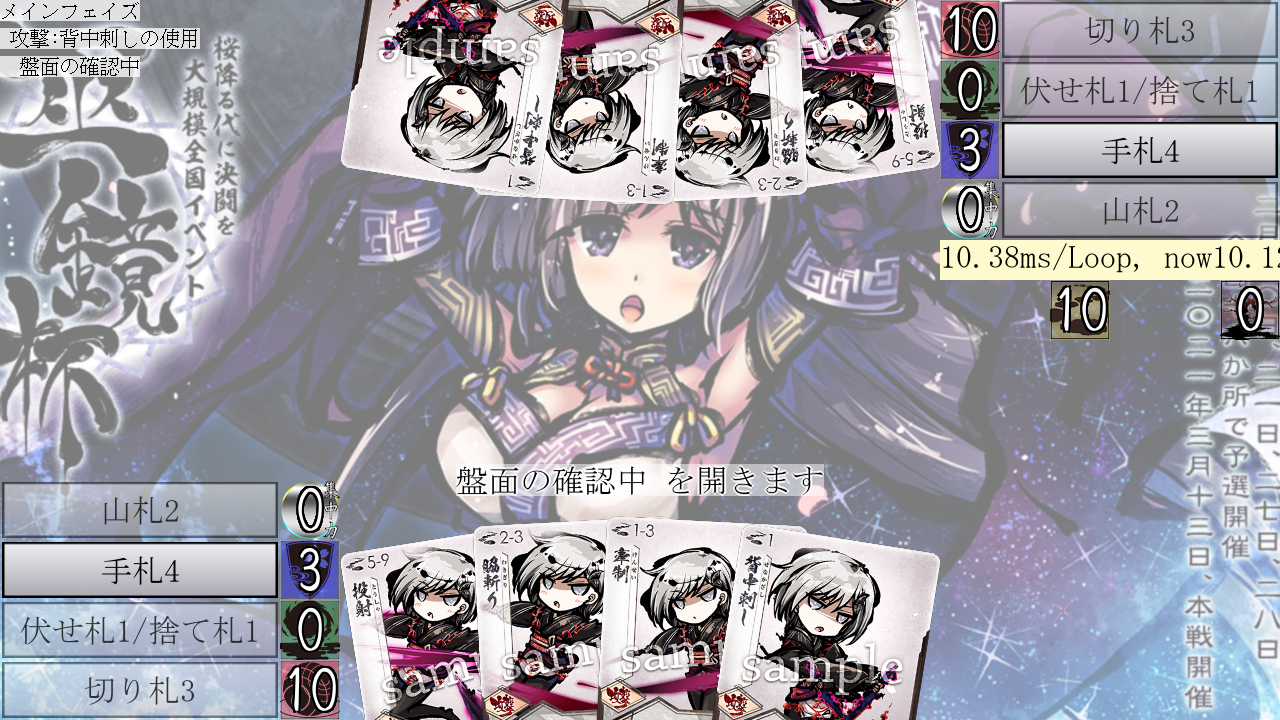
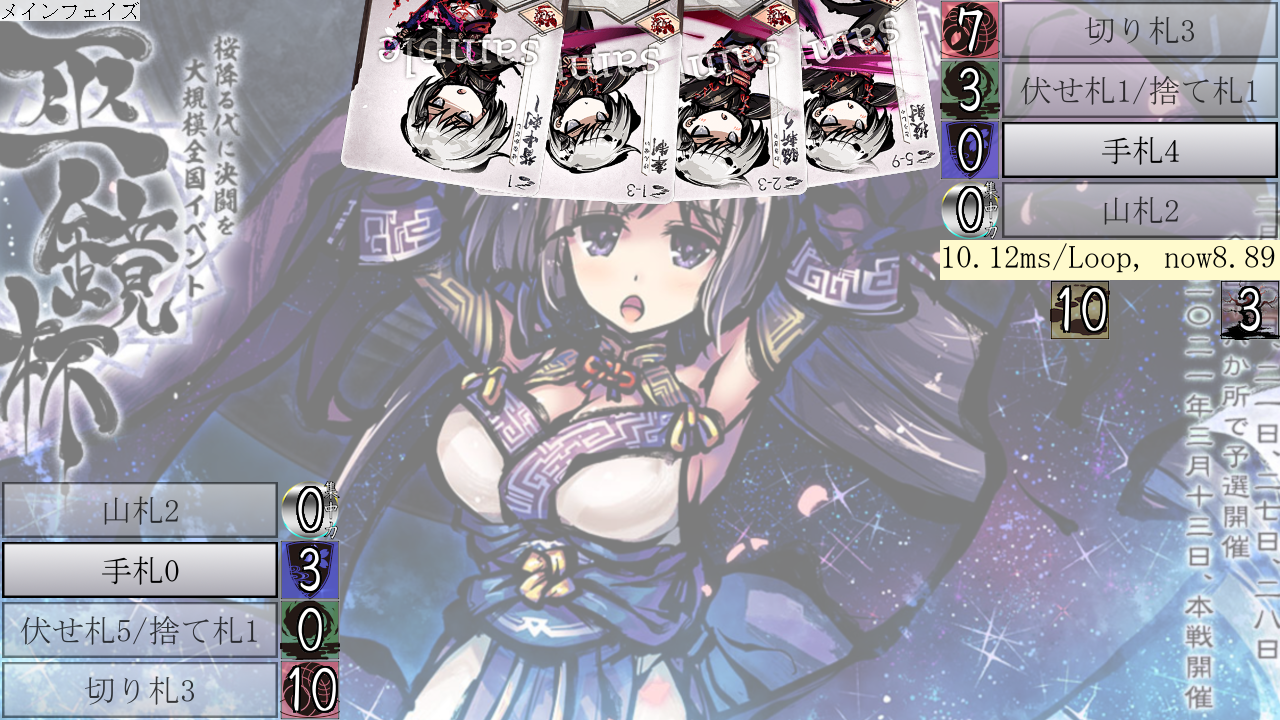
J200:オーラ受け、ライフ受けが攻撃に対してできる様になる

diff --git a/mod/ol/play_kougeki.py b/mod/ol/play_kougeki.py
@@ -1,9 +1,11 @@
+#                 20                  40                  60                 79
 import pygame
 from pygame.math import Vector2
 from pygame.surface import Surface
 from typing import Any, Callable
 
-from mod.const import screen, IMG_GRAY_LAYER, compatible_with, IMG_AURA_DAMAGE, IMG_LIFE_DAMAGE, BRIGHT, WX, WY, draw_aiharasuu
+from mod.const import screen, IMG_GRAY_LAYER, compatible_with, IMG_AURA_DAMAGE, IMG_LIFE_DAMAGE, BRIGHT, WX, WY, draw_aiharasuu\
+    , TC_SUTEHUDA, UC_AURA, UC_DUST, UC_LIFE, UC_FLAIR
 from mod.ol.over_layer import OverLayer
 from mod.huda import Huda, default_draw
 from mod.ol.view_banmen import view_youso
@@ -11,14 +13,16 @@ from mod.card import Card, auto_di, Kougeki, SuuziDI
 from mod.taba import Taba
 from mod.tf.taba_factory import TabaFactory
 from mod.controller import controller
+from mod.popup_message import popup_message
+from mod.moderator import moderator
 
 HAND_X: Callable[[int, int], float] = lambda i, j: WX/2-110*(j-1)+220*i
 HAND_Y: Callable[[int, int], float] = lambda i, j: WY/2-150
 HAND_ANGLE: Callable[[int, int], float] = lambda i, j: 0.0
 SCALE_SIZE = 180
 
-_aura_damage = Card(img=IMG_AURA_DAMAGE, name="", cond=auto_di)
-_life_damage = Card(img=IMG_LIFE_DAMAGE, name="", cond=auto_di)
+_ad_card = Card(img=IMG_AURA_DAMAGE, name="", cond=auto_di)
+_ld_card = Card(img=IMG_LIFE_DAMAGE, name="", cond=auto_di)
 
 class PlayKougeki():
     def __init__(self, huda: Huda) -> None:
@@ -36,8 +40,8 @@ class PlayKougeki():
         screen.blit(source=self.kougeki.img, dest=-Vector2(self.kougeki.img.get_size())/2+Vector2(WX, WY)/2)
         screen.blit(source=IMG_GRAY_LAYER, dest=[0, 0])
         self.uke_taba.elapse()
-        self._draw_damage(_aura_damage, self.kougeki.aura_damage)
-        self._draw_damage(_life_damage, self.kougeki.life_damage)
+        self._draw_damage(_ad_card, self.kougeki.aura_damage)
+        self._draw_damage(_ld_card, self.kougeki.life_damage)
 
 
     def get_hover(self) -> Any | None:
@@ -47,7 +51,7 @@ class PlayKougeki():
         bac = TabaFactory(inject_kwargs={
             "draw": self._draw, "hover": Huda.detail_draw, "mousedown": self._mousedown, "mouseup": self._mouseup
             }, huda_x=HAND_X, huda_y=HAND_Y, huda_angle=HAND_ANGLE)
-        self.uke_taba = bac.maid_by_cards(cards=[_aura_damage, _life_damage], hoyuusya=self.source_huda.hoyuusya)
+        self.uke_taba = bac.maid_by_cards(cards=[_ad_card, _ld_card], hoyuusya=self.source_huda.hoyuusya)
 
     def close(self) -> int:
         return 0
@@ -58,8 +62,8 @@ class PlayKougeki():
     def _draw_damage(self, card_type: Card, damage_func: SuuziDI) -> None:
         if huda := next((huda for huda in self.uke_taba if huda.card == card_type), None):
             draw_aiharasuu(surface=screen, dest=huda.dest - Vector2(SCALE_SIZE, SCALE_SIZE)/2,
-                        num=damage_func(self.delivery, self.source_huda.hoyuusya),
-                        size=SCALE_SIZE)
+                           num=damage_func(self.delivery, self.source_huda.hoyuusya),
+                           size=SCALE_SIZE)
 
     def _draw(self, huda: Huda) -> None:
         if controller.hover == huda:
@@ -69,10 +73,29 @@ class PlayKougeki():
             default_draw(huda=huda)
 
     def _mousedown(self, huda: Huda) -> None:
-        ...
+        controller.active = huda
 
     def _mouseup(self, huda: Huda) -> None:
-        ...
+        popup_message.add(text="PlayKougeki.mouseup でクリック確定したよ")
+        
+        if (do := {_ad_card: self._receive_aura_damage, _ld_card: self._receive_life_damage}.get(huda.card)) is None:
+            raise ValueError(f"Invalid huda.card: {huda.card}")
+        do()
+        huda.koudou(self.delivery, self.delivery.turn_player)
+        self.delivery.send_huda_to_ryouiki(huda=self.source_huda, is_mine=True, taba_code=TC_SUTEHUDA)
+        moderator.pop()
+
+    def _receive_aura_damage(self) -> None:
+        popup_message.add(text="オーラで受けました")
+        self.delivery.send_ouka_to_ryouiki(
+            hoyuusya=self.source_huda.hoyuusya, from_mine=False, from_code=UC_AURA, to_mine=False, to_code=UC_DUST,
+            kazu=self.kougeki.aura_damage(self.delivery, self.source_huda.hoyuusya))
+
+    def _receive_life_damage(self) -> None:
+        popup_message.add(text="ライフで受けました")
+        self.delivery.send_ouka_to_ryouiki(
+            hoyuusya=self.source_huda.hoyuusya, from_mine=False, from_code=UC_LIFE, to_mine=False, to_code=UC_FLAIR,
+            kazu=self.kougeki.life_damage(self.delivery, self.source_huda.hoyuusya))
 
 
 # compatible_with(, OverLayer)

diff --git a/mod/ol/others_basic_action.py b/mod/ol/others_basic_action.py
@@ -8,7 +8,7 @@ from mod.ol.over_layer import OverLayer
 from mod.huda import default_draw
 from mod.taba import Taba
 from mod.tf.taba_factory import TabaFactory
-from mod.popup_message import popup_message
+# from mod.popup_message import popup_message
 from mod.youso import Youso
 from mod.huda import Huda
 from mod.controller import controller
@@ -61,11 +61,11 @@ class OthersBasicAction():
             default_draw(huda=huda)
 
     def _mousedown(self, huda: Huda) -> None:
-        popup_message.add(text="OthersBasicAction.mousedown でクリックしたよ")
+        # popup_message.add(text="OthersBasicAction.mousedown でクリックしたよ")
         controller.active = huda
 
     def _mouseup(self, huda: Huda) -> None:
-        popup_message.add(text="OthersBasicAction.mouseup でクリック確定したよ")
+        # popup_message.add(text="OthersBasicAction.mouseup でクリック確定したよ")
         huda.koudou(self.delivery, self.delivery.turn_player)
         self.delivery.send_huda_to_ryouiki(huda=self.source_huda, is_mine=True, taba_code=TC_HUSEHUDA)
         moderator.pop()
